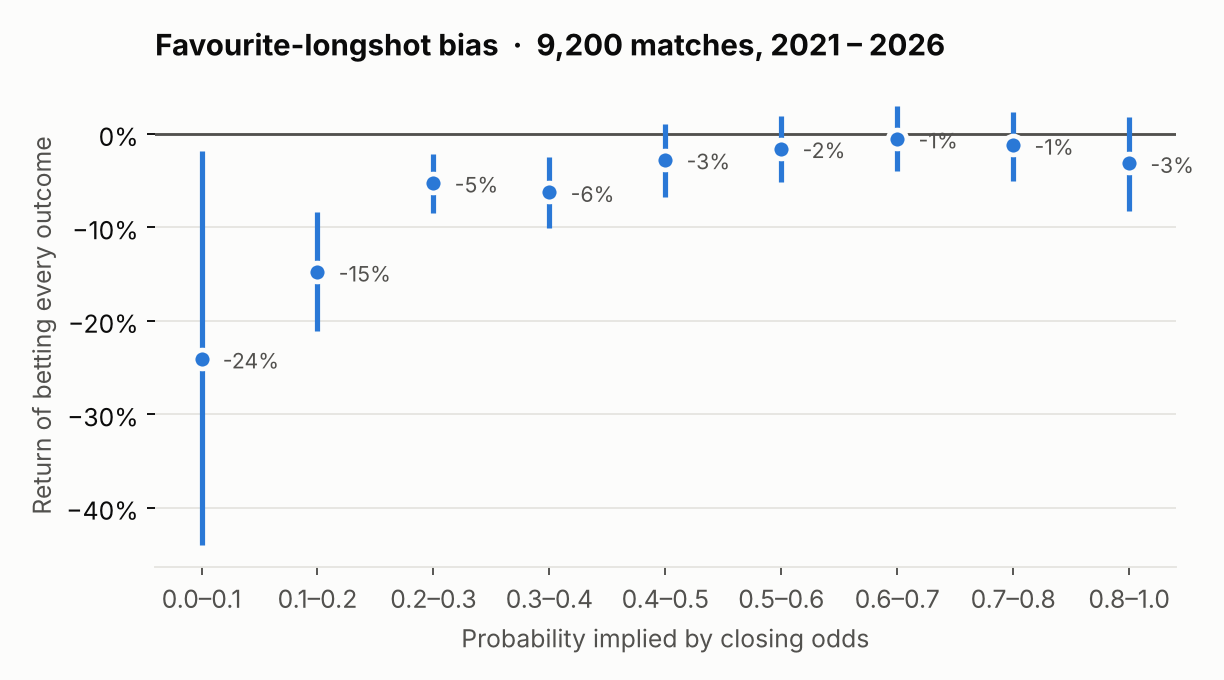
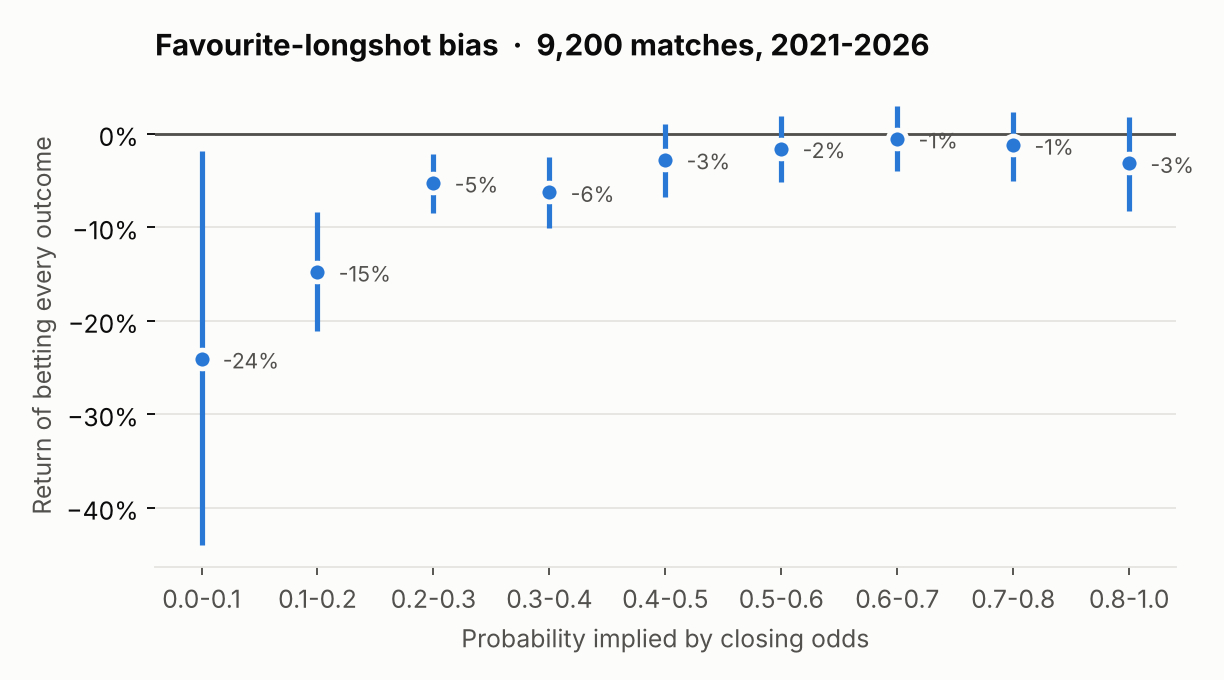
Remove em and en dashes from documentation, figures and outputs

diff --git a/scripts/make_figures.py b/scripts/make_figures.py
@@ -61,7 +61,7 @@ ax.set_yticks(ys, labels)
 ax.set_xlabel("Log-loss − bookmakers' log-loss (95 % CI)   ·   < 0 : better than the market")
 ax.set_ylim(-0.6, len(labels) - 0.4)
 ax.text(0, -0.55, "  market", color=INK2, va="bottom", fontsize=9.5)
-fig.suptitle("Gap to the betting market  ·  3,799 matches, Jul 2024 – Oct 2026", x=0.015, ha="left",
+fig.suptitle("Gap to the betting market  ·  3,799 matches, Jul 2024 to Oct 2026", x=0.015, ha="left",
              fontsize=12.5, fontweight="bold")
 ax.grid(axis="y", visible=False)
 save(fig, "market_gap.png")
@@ -86,7 +86,7 @@ save(fig, "feature_families.png")
 # ---------------------------------------------------------------- 3. favourite-longshot bias
 ms = pd.read_csv(f"{RES}/market_study.csv")
 b = ms[ms["stratégie"].str.startswith("B tranche")].copy()
-b["label"] = b["stratégie"].str.replace("B tranche ", "", regex=False).str.replace("-", "–")
+b["label"] = b["stratégie"].str.replace("B tranche ", "", regex=False)
 fig, ax = plt.subplots(figsize=(7.2, 4.0))
 ax.axhline(0, color=INK2, linewidth=1.2, zorder=1)
 x = range(len(b))
@@ -98,7 +98,7 @@ ax.set_xticks(list(x), list(b.label))
 ax.yaxis.set_major_formatter(matplotlib.ticker.PercentFormatter(1.0, decimals=0))
 ax.set_xlabel("Probability implied by closing odds")
 ax.set_ylabel("Return of betting every outcome")
-ax.set_title("Favourite-longshot bias  ·  9,200 matches, 2021 – 2026")
+ax.set_title("Favourite-longshot bias  ·  9,200 matches, 2021-2026")
 ax.grid(axis="x", visible=False)
 save(fig, "favourite_longshot.png")
 

diff --git a/footpred/evaluation/market_study.py b/footpred/evaluation/market_study.py
@@ -120,7 +120,7 @@ for a, b in zip(bins, bins[1:]):
         continue
     roi = np.where(w[k], o[k] - 1, -1)
     lo, hi = ci(roi)
-    say(f"  {a:.1f} – {b:.1f}         {k.sum():6d}     {w[k].mean():6.1%}            {p[k].mean():6.1%}"
+    say(f"  {a:.1f}-{b:.1f}           {k.sum():6d}     {w[k].mean():6.1%}            {p[k].mean():6.1%}"
         f"          {roi.mean():+6.1%} [{lo:+.1%} ; {hi:+.1%}]")
     rows.append({"stratégie": f"B tranche {a:.1f}-{b:.1f}", "paris": int(k.sum()), "roi": roi.mean(),
                  "roi_bas": lo, "roi_haut": hi, "freq": w[k].mean(), "proba": p[k].mean()})

diff --git a/README.md b/README.md
@@ -1,17 +1,17 @@
 # Can public football data beat the betting market?
 
-**A leakage-audited, walk-forward study of match forecasting in the Big-5 European leagues (2021 – 2026)**
+**A leakage-audited, walk-forward study of match forecasting in the Big-5 European leagues (2021-2026)**
 
 ![python](https://img.shields.io/badge/python-3.10%2B-2a78d6) ![license](https://img.shields.io/badge/license-MIT-2a78d6) ![tests](https://img.shields.io/badge/tests-18%20passing-1baf7a) ![leakage audit](https://img.shields.io/badge/leakage%20audit-passing-1baf7a)
 
 *Version française : [README.fr.md](README.fr.md)*
 
-I built a complete pipeline — data collection, 220 hand-designed features, gradient-boosted
-models, a lineup transformer — to predict football match outcomes, and evaluated it the way a
+I built a complete pipeline (data collection, 220 hand-designed features, gradient-boosted
+models, a lineup transformer) to predict football match outcomes, and evaluated it the way a
 forecaster should be evaluated: **on ~3,800 matches it never saw while being designed or tuned,
 against the betting market that had exactly the same information.**
 
-The short answer is **no**: the model is good — far better than a classic Dixon-Coles model — but
+The short answer is **no**: the model is good, far better than a classic Dixon-Coles model, but
 the market is better still, and the model adds no information the market does not already price.
 The more interesting answers are in *why*, and in the pitfalls found on the way.
 
@@ -25,7 +25,7 @@ The more interesting answers are in *why*, and in the pitfalls found on the way.
 | **No betting edge** | the model alone has negative closing-line value (−2 % to −9 %) and negative returns at every threshold |
 | **Line-ups barely matter** | knowing the starting XI improves log-loss by only 0.001 (not significant) |
 | **What carries signal** | only **match context** (stakes, European fixtures, rest, managerial changes, squad age) helps significantly on its own (+0.007 log-loss); tactics, line-up attack, chemistry, defence and match stats add ~0.002 each but overlap; form, head-to-head, luck, availability and game-state xG add nothing |
-| **Market biases** | a clear **favourite-longshot bias**: outcomes priced under 10 % happen 6 % of the time (−24 % return), favourites lose only 1–3 % |
+| **Market biases** | a clear **favourite-longshot bias**: outcomes priced under 10 % happen 6 % of the time (−24 % return), favourites lose only 1-3 % |
 | **Methodological trap** | measuring closing-line value with proportional de-vigging shows a spurious **+10.7 %** edge; the power method gives **−0.4 %** |
 
 <p align="center"><img src="docs/figures/market_gap.png" width="820"></p>
@@ -35,12 +35,12 @@ The more interesting answers are in *why*, and in the pitfalls found on the way.
 * **Strict temporal discipline.** Features are produced by one chronological replay of every
   match; simultaneous kick-offs are written before any of them updates the state.
 * **Walk-forward evaluation.** Refit every two months on the past only; hyper-parameters,
-  calibration and blend weights are chosen on a separate tuning period (Jan 2023 – Jun 2024);
-  the evaluation period (Jul 2024 – Oct 2026) is never used for any decision.
+  calibration and blend weights are chosen on a separate tuning period (Jan 2023 to Jun 2024);
+  the evaluation period (Jul 2024 to Oct 2026) is never used for any decision.
 * **Fair market comparison.** Models without line-ups are compared with *opening* odds, models
-  with line-ups with *closing* odds — never a model with information the market did not have.
+  with line-ups with *closing* odds, so a model never gets information the market did not have.
 * **Automated leakage audit** (`make leakage`): rebuilding features on truncated data or without
-  one simultaneous match must change nothing — it doesn't, over 14,080 rows and 154,857 player
+  one simultaneous match must change nothing, and it doesn't, over 14,080 rows and 154,857 player
   tokens.
 * **Every comparison has a confidence interval** (paired bootstrap over matches).
 * **Bugs are documented, not hidden.** Five leakage or measurement bugs were found and fixed;
@@ -48,11 +48,11 @@ The more interesting answers are in *why*, and in the pitfalls found on the way.
 
 ## Results
 
-### Forecast quality — evaluation period, 3,799 matches with complete odds
+### Forecast quality: evaluation period, 3,799 matches with complete odds
 
 | Forecaster | Information | Log-loss ↓ | Brier ↓ |
 |---|---|---|---|
-| Constant (base rates) | — | 1.0740 | 0.6500 |
+| Constant (base rates) | none | 1.0740 | 0.6500 |
 | Dixon-Coles, goals only, refit monthly | past goals | 0.9923 | 0.5913 |
 | LightGBM, 164 features | before line-ups | 0.9784 | 0.5825 |
 | LightGBM, 220 features | with line-ups | 0.9774 | 0.5818 |
@@ -62,7 +62,7 @@ The more interesting answers are in *why*, and in the pitfalls found on the way.
 | Bookmakers, closing | with line-ups | 0.9677 | 0.5756 |
 | Model ⊕ closing market blend | with line-ups | 0.9675 | 0.5755 |
 
-### An exploratory signal — not a result
+### An exploratory signal, not a result
 
 One betting rule stands out: the model ⊕ market blend, betting at the **best available opening
 price** when it exceeds the blend's fair odds by 2 %, gives +9.2 % return (95 % CI [+1.6 %, +17.1 %])
@@ -104,7 +104,7 @@ python -m venv .venv && source .venv/bin/activate
 pip install -r requirements.txt
 
 make test        # 18 unit tests, no data needed (< 5 s)
-make data        # download the raw data (~1–2 h, deliberately rate-limited)
+make data        # download the raw data (~1-2 h, deliberately rate-limited)
 make features    # 220 leakage-free features (~3 min)
 make leakage     # automated leakage audit (~8 min)
 make evaluate    # walk-forward evaluation (~25 min, 2 CPU cores)

diff --git a/README.fr.md b/README.fr.md
@@ -1,17 +1,17 @@
 # Les données publiques du football peuvent-elles battre les bookmakers ?
 
-**Une étude en évaluation glissante, auditée contre les fuites d'information, sur les 5 grands championnats européens (2021 – 2026)**
+**Une étude en évaluation glissante, auditée contre les fuites d'information, sur les 5 grands championnats européens (2021-2026)**
 
 *English version: [README.md](README.md)*
 
-J'ai construit une chaîne complète — collecte des données, 220 variables conçues à la main,
-modèles de gradient boosting, transformer sur les compositions d'équipe — pour prédire l'issue des
+J'ai construit une chaîne complète (collecte des données, 220 variables conçues à la main,
+modèles de gradient boosting, transformer sur les compositions d'équipe) pour prédire l'issue des
 matchs de football, puis je l'ai évaluée comme on doit évaluer un prévisionniste : **sur environ
 3 800 matchs jamais vus pendant sa conception ni ses réglages, face au marché des paris qui
 disposait exactement de la même information.**
 
-La réponse courte est **non** : le modèle est bon — bien meilleur qu'un modèle Dixon-Coles
-classique — mais le marché l'est davantage, et le modèle n'apporte aucune information que les
+La réponse courte est **non** : le modèle est bon, bien meilleur qu'un modèle Dixon-Coles
+classique, mais le marché l'est davantage, et le modèle n'apporte aucune information que les
 cotes ne contiennent déjà. Les réponses les plus intéressantes portent sur le *pourquoi*, et sur
 les pièges rencontrés en chemin.
 
@@ -36,12 +36,12 @@ les pièges rencontrés en chemin.
   l'ordre chronologique ; les matchs joués à la même heure sont tous calculés avant qu'aucun ne
   mette à jour les historiques.
 * **Évaluation glissante.** Réentraînement tous les 2 mois sur le seul passé ; réglages,
-  calibration et poids des mélanges choisis sur une période distincte (janv. 2023 – juin 2024) ;
-  la période d'évaluation (juil. 2024 – oct. 2026) ne sert à aucune décision.
+  calibration et poids des mélanges choisis sur une période distincte (janv. 2023 à juin 2024) ;
+  la période d'évaluation (juil. 2024 à oct. 2026) ne sert à aucune décision.
 * **Comparaison équitable au marché.** Les modèles sans compositions sont comparés aux cotes
   d'*ouverture*, ceux avec compositions aux cotes de *clôture*.
 * **Audit automatique des fuites** (`make leakage`) : recalculer les variables sur des données
-  tronquées, ou sans un match joué en même temps, ne doit rien changer — c'est le cas sur
+  tronquées, ou sans un match joué en même temps, ne doit rien changer, et c'est le cas sur
   14 080 lignes et 154 857 jetons joueurs.
 * **Chaque comparaison a un intervalle de confiance** (bootstrap apparié sur les matchs).
 * **Les bugs sont documentés, pas cachés.** Cinq bugs de fuite ou de mesure ont été trouvés et
@@ -49,11 +49,11 @@ les pièges rencontrés en chemin.
 
 ## Résultats détaillés
 
-### Qualité des prévisions — période d'évaluation, 3 799 matchs avec cotes complètes
+### Qualité des prévisions : période d'évaluation, 3 799 matchs avec cotes complètes
 
 | Prévisionniste | Information | Log-loss ↓ | Brier ↓ |
 |---|---|---|---|
-| Constante (fréquences) | — | 1,0740 | 0,6500 |
+| Constante (fréquences) | aucune | 1,0740 | 0,6500 |
 | Dixon-Coles, buts seuls | buts passés | 0,9923 | 0,5913 |
 | LightGBM, 164 variables | avant compositions | 0,9784 | 0,5825 |
 | LightGBM, 220 variables | avec compositions | 0,9774 | 0,5818 |
@@ -63,7 +63,7 @@ les pièges rencontrés en chemin.
 | Bookmakers, clôture | avec compositions | 0,9677 | 0,5756 |
 | Mélange modèle ⊕ marché de clôture | avec compositions | 0,9675 | 0,5755 |
 
-### Une piste exploratoire — pas un résultat
+### Une piste exploratoire, pas un résultat
 
 Une règle de pari se distingue : le mélange modèle ⊕ marché, en pariant à la **meilleure cote
 d'ouverture disponible** quand elle dépasse la cote juste du mélange de 2 %, donne +9,2 % de
@@ -100,7 +100,7 @@ git clone https://github.com/tristan-mrtn/football-markets-ml && cd football-mar
 python -m venv .venv && source .venv/bin/activate
 pip install -r requirements.txt
 make test        # 18 tests unitaires, sans données
-make data        # téléchargement des données (~1–2 h, volontairement lent)
+make data        # téléchargement des données (~1-2 h, volontairement lent)
 make features leakage evaluate report market ablation figures
 ```
 

diff --git a/docs/METHODOLOGY.md b/docs/METHODOLOGY.md
@@ -59,14 +59,14 @@ would "see" the first one's result through league tables or formation statistics
 
 ## 3. Models
 
-* **Dixon-Coles (1997)** — attack/defence Poisson model with low-score correction and time decay,
+* **Dixon-Coles (1997)**: attack/defence Poisson model with low-score correction and time decay,
   refitted every month per league on the previous three seasons. Baseline using goals only.
-* **LightGBM, Poisson objective** — two rows per match (each team attacking the other), predicting
+* **LightGBM, Poisson objective**: two rows per match (each team attacking the other), predicting
   goals; the two expected-goal rates are combined into a score matrix with a Dixon-Coles
   correction ρ fitted on the tuning period, giving home/draw/away probabilities.
   Hyper-parameters: 60-trial random search on the tuning period only; the selected configuration
   is in `results/wf_lgb_best.json`.
-* **Lineup transformer (experimental)** — learned player embeddings + per-player state, two
+* **Lineup transformer (experimental)**: learned player embeddings + per-player state, two
   self-attention layers over the 22 starters. It never beat LightGBM on the tuning period
   (log-loss 0.990 vs 0.979) and is not part of the final evaluation; code kept in
   `footpred/models/transformer.py`.
@@ -95,15 +95,15 @@ A model is only compared with the market that had **the same information**:
 * models **without lineups** → **opening** odds; bets placed at opening prices;
 * models **with lineups** → **closing** odds (the market also knows the line-ups); bets at closing prices.
 
-Comparing a lineup model with opening odds — a mistake made in an earlier version of this
-project — gives the model information the market did not yet have and inflates any "edge".
+Comparing a lineup model with opening odds (a mistake made in an earlier version of this
+project) gives the model information the market did not yet have and inflates any "edge".
 
 **Removing the bookmaker margin.** Implied probabilities are de-vigged with the **power
 method** (find *k* such that Σ (1/oᵢ)ᵏ = 1). The common proportional method spreads the margin
 evenly, whereas bookmakers load more margin on longshots; proportional de-vigging therefore
 overstates longshot probabilities (12.8 % announced vs 10.9 % observed on the bets studied).
 
-**Closing-line value (CLV)** — odds taken divided by the de-vigged closing odds, minus one — is a
+**Closing-line value (CLV)**, the odds taken divided by the de-vigged closing odds minus one, is a
 much lower-variance signal of skill than profit. With proportional de-vigging, a simple
 "outlier bookmaker" strategy shows a spurious **CLV of +10.7 %** while losing money; with the
 power method its CLV is **−0.4 %**, consistent with its returns. This pitfall is easy to fall into.
@@ -116,13 +116,13 @@ blend would beat the market.
 
 `python -m footpred.evaluation.leak_tests data` runs four automated tests:
 
-1. **Truncation** — rebuild all features with every match after time T deleted; the features of
+1. **Truncation**: rebuild all features with every match after time T deleted; the features of
    all earlier matches (and the 154k player tokens) must be identical.
-2. **Removal** — delete one match played at T, where T is a final matchday with ≥ 8 simultaneous
+2. **Removal**: delete one match played at T, where T is a final matchday with ≥ 8 simultaneous
    matches; the features of the other matches at T must not change.
-3. **Correlation** — no feature may correlate above 0.5 with the goals of its own match
+3. **Correlation**: no feature may correlate above 0.5 with the goals of its own match
    (the maximum is the opening-odds feature, ≈ 0.38).
-4. **Closing odds** — no closing-odds column may exist among features.
+4. **Closing odds**: no closing-odds column may exist among features.
 
 ### Bugs found and fixed during the project
 
